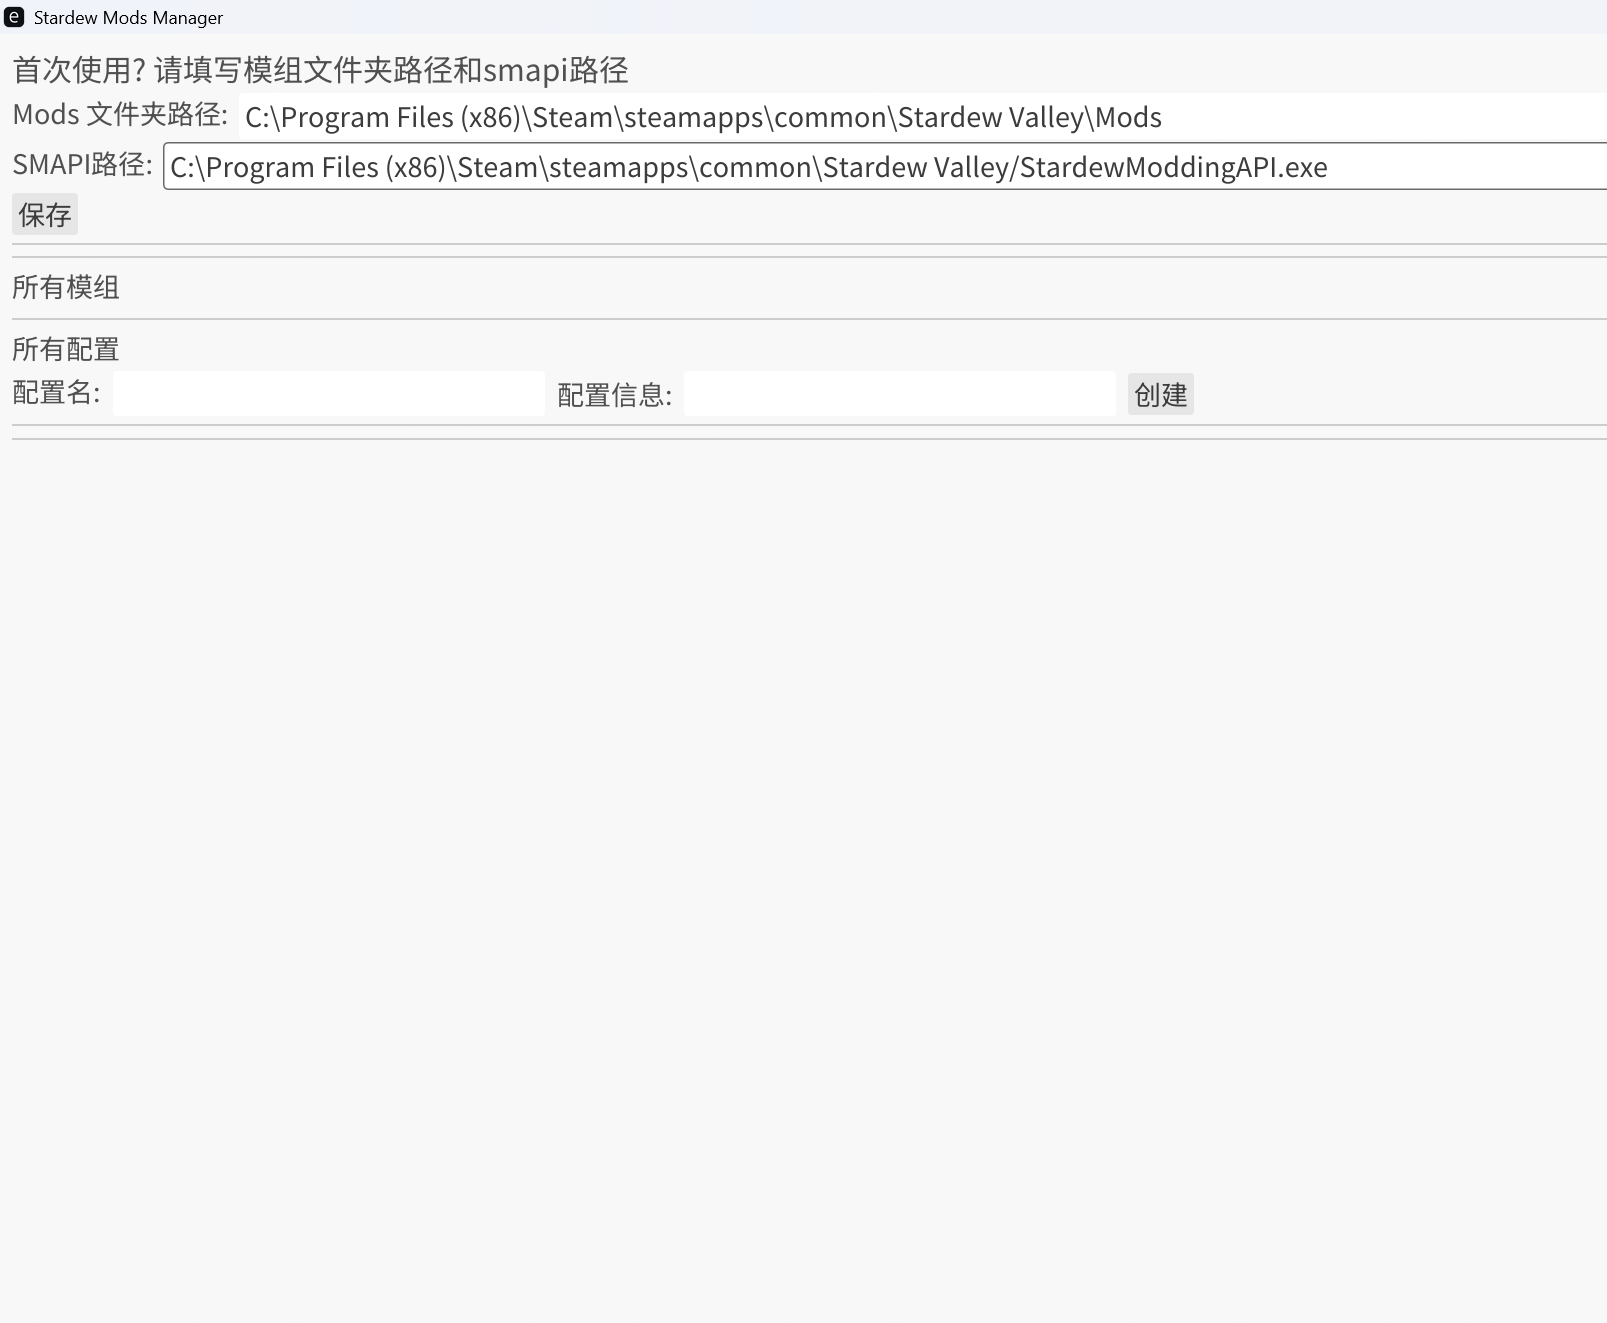
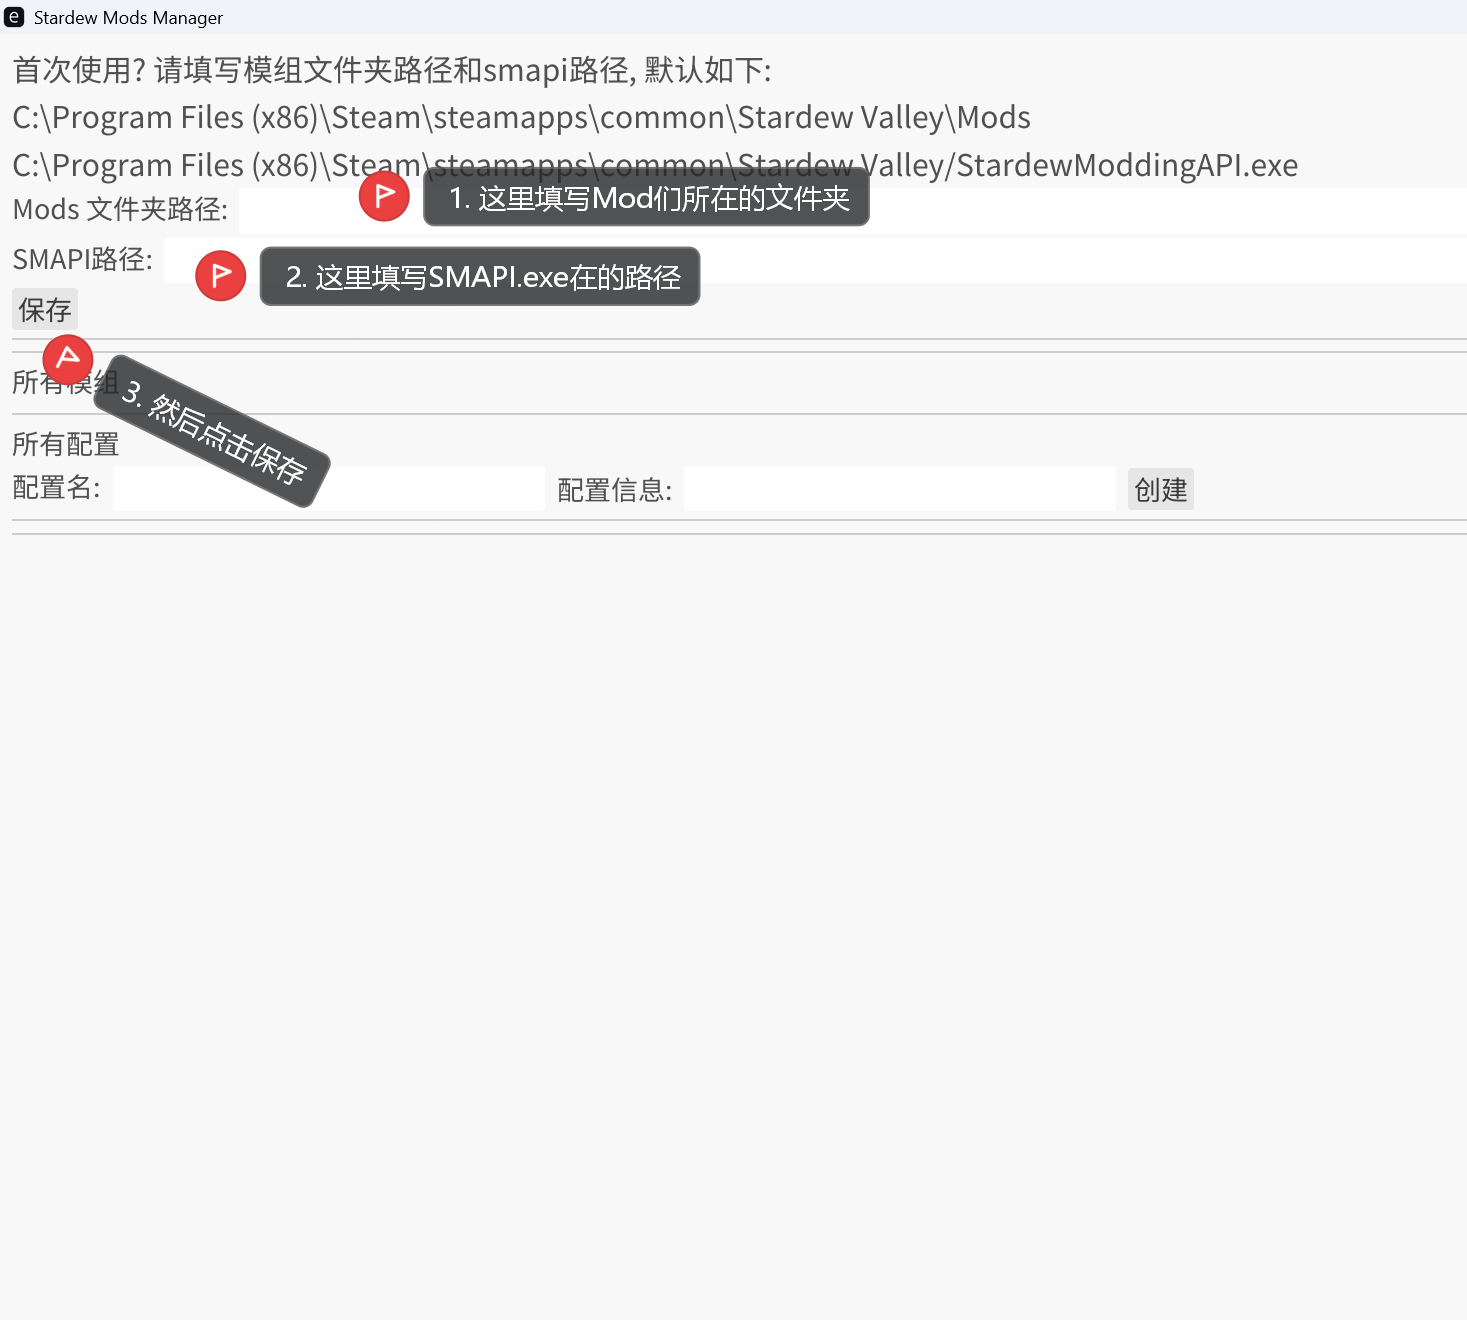
更新README

Changed region(s): [[0.0, 0.0, 1.0, 0.4038]]

diff --git a/README.md b/README.md
@@ -64,20 +64,25 @@ cargo run
 首次使用请填写本地的 Mods 目录路径 和 SMAPI 路径, 然后点击保存.
 首次使用输入框会填写默认路径, 请核对后修改.
 
+![](./images_for_readme/step1.png)
+
 #### step two
 
 填写配置名和描述, 配置名不能为空;
 点击创建即可创建一个空配置.
+![](./images_for_readme/step2.png)
 
 #### step three
 
 在模组栏寻找需要的模组, 选中.
 然后选中配置,
 最后点击将模组加入配置.
+![](./images_for_readme/step3.png)
 
 #### step four
 
 点击启动, 稍等片刻, 即可游玩.
+![](./images_for_readme/step4.png)
 
 ## 说明
 
